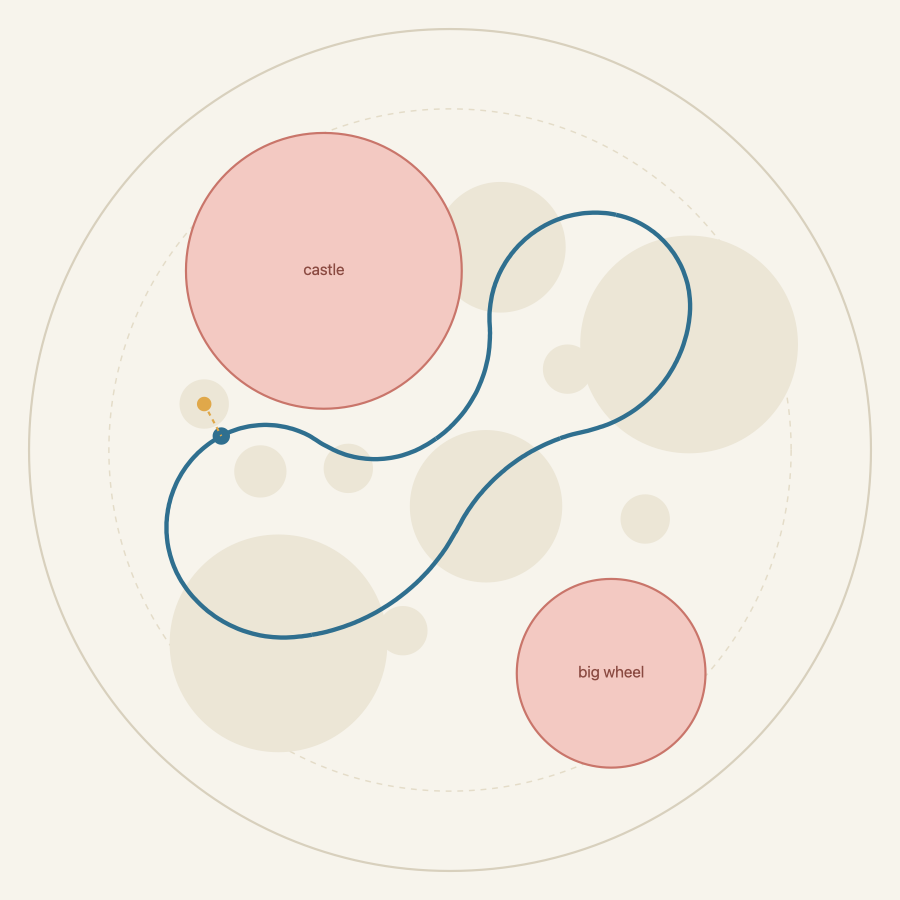
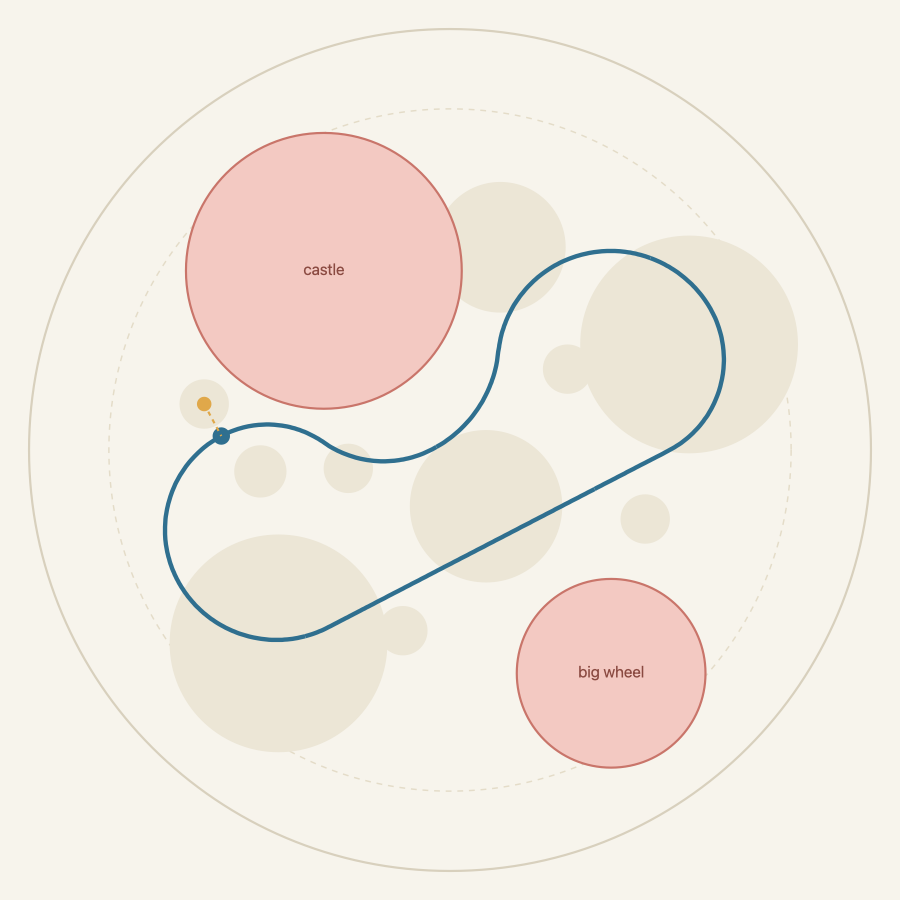
Make the built curve honour the turning radius, not just the plan
Review found this, and it is the same bug this generator was written to
fix, one layer down in the new code.

The generator validates turning radius on its own cubics. CoasterRoute
then resamples the plan into control points and rebuilds it as a
CatmullRomCurve3 — and a rebuild is not a copy. The spline sags away
from the curve its points came from, worst at the tightest bends, which
are exactly the ones under a limit. Measured at the original 3 m control
spacing, the rebuild ate 0.73 to 1.38 m and two of the five CI seeds
shipped a curve tighter than the 12 m the code declares: seed 2 at
11.68 m, seed 18 at 10.98 m.

The old solver pushed its control points clear of the castle and then
smoothed them, so the built curve did not respect what had been
validated. Validating a plan and shipping a rebuild of it is that same
mistake with newer words.

Fixed with both halves, because either alone is thin. CONTROL_SPACING
goes 3 -> 2, which addresses the cause and takes the worst loss to
0.46 m. PLAN_TURN_RADIUS asks the generator for a metre more than the
ride promises, covering what is left — the loss is not smooth in
spacing, it depends where a control lands relative to the tightest bend,
so a margin that merely happens to hold on today's seeds is luck.

Now measured on the built curve in two places that CI blocks on: the
skyCruiserTurnsGently procgen invariant and check:cruiser-turn-radius.
Mutation-tested by raising the bar to 14 m and confirming four seeds
[…]

diff --git a/src/world/coaster/route.ts b/src/world/coaster/route.ts
@@ -99,7 +99,8 @@ const CAR_HALF_WIDTH = 0.75;
 const SELF_CLEARANCE = 5;
 
 /**
- * Tightest turn the ride will make.
+ * **Tightest turn the ride will make** — a promise about the curve riders are
+ * actually on, not about the plan it was grown from.
  *
  * The old polar solve produced a **1.7 m** minimum radius — a hairpin, at
  * cruise speed, measured on the built curve by `scripts/measure-rail-radii.mts`.
@@ -107,14 +108,57 @@ const SELF_CLEARANCE = 5;
  * six-year-old enjoys rather than one that throws them at the restraint, and
  * it keeps the family's "Sky Cruiser is the tightest of the three" ordering
  * comfortably (the Rail Race ring is 57 m).
+ *
+ * `scripts/check-cruiser-turn-radius.mts` holds the built curve to this, and it
+ * is the number the procgen invariant measures. See {@link PLAN_TURN_RADIUS}
+ * for why the generator is asked for something stricter.
  */
-const MIN_TURN_RADIUS = 12;
+export const MIN_TURN_RADIUS = 12;
+
+/**
+ * What the *plan* is held to, which is deliberately more than the ride
+ * promises.
+ *
+ * The generator validates radii on its own cubics, but `CoasterRoute` does not
+ * ship those cubics: it resamples them into control points and rebuilds them as
+ * a `CatmullRomCurve3`, and **a rebuild is not a copy**. The spline through
+ * sampled points sags away from the curve the points came from, and it sags
+ * most at the tightest bends — precisely the ones under a limit. Measured
+ * across the five CI seeds at the original 3 m control spacing, the rebuild ate
+ * between 0.73 m and 1.38 m of radius, and two seeds landed under the 12 m the
+ * ride claims: seed 2 at 11.68 m, seed 18 at 10.98 m.
+ *
+ * That is the same mistake this whole generator replaced. The old solver pushed
+ * its control points clear of the castle and then smoothed them, so the built
+ * curve did not respect what had been validated. Validating a plan and shipping
+ * a rebuild of it is that bug one layer down, in newer code.
+ *
+ * The fix is both halves, because either alone is thin. {@link CONTROL_SPACING}
+ * makes the rebuild faithful, which is the actual cause; this headroom covers
+ * what is left, because the loss is not a smooth function of spacing — it
+ * depends where a control point happens to fall relative to the tightest bend,
+ * so a margin that merely *happens* to hold on today's five seeds is luck, not
+ * a guarantee.
+ */
+const PLAN_TURN_RADIUS = MIN_TURN_RADIUS + 1;
 
 /** Metres of track wanted. The old loop came out at 221 m; this holds that. */
 const DESIRED_LENGTH = 220;
 
-/** Roughly this far apart, in metres, along the loop. */
-const CONTROL_SPACING = 3;
+/**
+ * Roughly this far apart, in metres, along the loop.
+ *
+ * Two metres rather than the three it started at. This is the half of the
+ * turning-radius fix that addresses the cause rather than the symptom: closer
+ * control points mean the rebuilt spline tracks the solved plan more closely,
+ * which took the worst rebuild loss across the CI seeds from 1.38 m to 0.46 m.
+ *
+ * Not finer still, because the vertical repair loop below works in control
+ * points and starts to get grainy when they are packed tighter than its own
+ * scan; two metres keeps the two in step. The rest of the margin is bought by
+ * {@link PLAN_TURN_RADIUS} instead.
+ */
+const CONTROL_SPACING = 2;
 
 
 interface TallObstacle {
@@ -155,7 +199,11 @@ function groundClearOfPlots(x: number, z: number, radius: number, exceptId?: str
 /** The pieces the Sky Cruiser is built from. `MIN_TURN_RADIUS` lives here. */
 const CRUISER_VOCABULARY: readonly SegmentKind[] = turnVocabulary(
   [
-    { name: 'tight', minRadius: MIN_TURN_RADIUS, maxRadius: 18, minLength: 16, maxLength: 28 },
+    // Widening these to compensate for the raised floor was tried and made
+    // things worse (18 of 21 seeds, against 20 before): the vocabulary is not
+    // the binding constraint, and changing it mostly reshuffles which seeds get
+    // lucky. The search budget is the lever that actually moved.
+    { name: 'tight', minRadius: PLAN_TURN_RADIUS, maxRadius: 18, minLength: 16, maxLength: 28 },
     { name: 'sweep', minRadius: 18, maxRadius: 32, minLength: 22, maxLength: 38 },
     { name: 'easy', minRadius: 32, maxRadius: 60, minLength: 26, maxLength: 46 },
   ],
@@ -326,7 +374,7 @@ export class CoasterRoute {
       boundary,
       corridorRadius: CORRIDOR_RADIUS,
       selfClearance: SELF_CLEARANCE,
-      minRadius: MIN_TURN_RADIUS,
+      minRadius: PLAN_TURN_RADIUS,
       budgets: { perJoint: 16, restarts: 200 },
     };
     const plan = solveRailRoute(brief);

diff --git a/test/procgen/invariants.ts b/test/procgen/invariants.ts
@@ -436,6 +436,78 @@ const skyCruiserClearsTheTallThings: Invariant = (facts) => {
 };
 
 /**
+ * The gentlest turn a rail ride may make, in metres.
+ *
+ * A ride-comfort number, not a solver setting: the retired 2D game settled on
+ * "nothing a six-year-old has to brace against", and `coaster/route.ts` states
+ * 12 m as the tightest turn the Sky Cruiser will make. This file cannot import
+ * that constant — a static import of the coaster would solve the park layout at
+ * the default seed before the per-seed tests get to set theirs — so it is
+ * restated here, which is also the point: this is the *claim* being checked,
+ * and it is checked against the curve riders are actually on.
+ */
+const GENTLEST_TURN = 12;
+
+/** Arc spacing between the three points a curvature measurement is taken from. */
+const CURVATURE_SPAN = 2.5;
+
+/**
+ * Radius of the circle through three points, in plan view. Menger curvature.
+ * Infinity where they are collinear.
+ */
+const radiusThrough = (a: Vector3, b: Vector3, c: Vector3): number => {
+  const ab = Math.hypot(b.x - a.x, b.z - a.z);
+  const bc = Math.hypot(c.x - b.x, c.z - b.z);
+  const ca = Math.hypot(a.x - c.x, a.z - c.z);
+  const area = Math.abs((b.x - a.x) * (c.z - a.z) - (c.x - a.x) * (b.z - a.z)) / 2;
+  if (area < 1e-9) return Infinity;
+  return (ab * bc * ca) / (4 * area);
+};
+
+/**
+ * **The Sky Cruiser's built track really does turn as gently as it claims.**
+ *
+ * The generator validates turning radius on its own cubics, and that is not the
+ * same thing as the ride having it. `CoasterRoute` resamples the solved plan
+ * into control points and rebuilds it as a `CatmullRomCurve3`, and a rebuild is
+ * not a copy: the spline sags away from the curve its points came from, worst
+ * at the tightest bends. Measured before this was fixed, the rebuild ate up to
+ * 1.38 m and two of the five seeds here shipped a curve tighter than the 12 m
+ * the code declares — seed 2 at 11.68 m, seed 18 at 10.98 m.
+ *
+ * Which is the same mistake the old solver made, one layer down: it too pushed
+ * control points where it wanted them and then smoothed them, so the built
+ * curve did not honour what had been validated. A plan is a claim. This
+ * measures the fact, and it is the reason the fix cannot silently rot.
+ */
+const skyCruiserTurnsGently: Invariant = (facts) => {
+  const route = facts.world.coaster.route;
+  const a = new Vector3();
+  const b = new Vector3();
+  const c = new Vector3();
+  let tightest = Infinity;
+  let at = 0;
+  // Half-metre steps: a single tight bend is a few metres long, and a coarse
+  // sweep can step straight over the one that matters.
+  for (let d = 0; d < route.length; d += 0.5) {
+    route.pointAt(d - CURVATURE_SPAN, a);
+    route.pointAt(d, b);
+    route.pointAt(d + CURVATURE_SPAN, c);
+    const radius = radiusThrough(a, b, c);
+    if (radius < tightest) {
+      tightest = radius;
+      at = d;
+    }
+  }
+  expect(
+    tightest,
+    `the Sky Cruiser's built track turns at ${tightest.toFixed(2)} m radius ` +
+      `${at.toFixed(0)} m along the loop, tighter than the ${GENTLEST_TURN} m it promises — ` +
+      `the plan was validated but the rebuilt curve does not honour it`,
+  ).toBeGreaterThanOrEqual(GENTLEST_TURN);
+};
+
+/**
  * The suite. **Add an invariant by adding a line here.**
  */
 const INVARIANTS: readonly (readonly [string, Invariant])[] = [
@@ -450,6 +522,7 @@ const INVARIANTS: readonly (readonly [string, Invariant])[] = [
   ['every ride exit is clear ground, reachable from the entrance', rideExitsAreUsable],
   ['the Rail Race flies clear of the railway and stands on clear ground', railRaceFliesClear],
   ['the Sky Cruiser goes round the castle and the big wheel', skyCruiserClearsTheTallThings],
+  ['the Sky Cruiser built track turns as gently as it promises', skyCruiserTurnsGently],
 ];
 
 /**

diff --git a/src/world/rail/generate.ts b/src/world/rail/generate.ts
@@ -196,7 +196,7 @@ const VIA_MAX_GAP = 95;
  * it is the wrong place to start, and the budget is better spent on the next
  * candidate station than on proving this one impossible.
  */
-const STEPS_PER_START = 800;
+const STEPS_PER_START = 1200;
 
 /**
  * How far behind the start the approach corridor sits.

diff --git a/HANDOFF-rail-generator.md b/HANDOFF-rail-generator.md
@@ -98,7 +98,7 @@ is genuinely down among the scenery, unlike the rest of the loop which flies.
 - [x] boundary.ts / segments.ts / generate.ts
 - [x] CoasterRoute migration (public surface unchanged)
 - [x] clearance assert + procgen invariant
-- [x] `npm run build` passes; `npm run test:procgen` 55/55 across 5 seeds
+- [x] `npm run build` passes; `npm run test:procgen` 65/65 across 5 seeds
 - [x] turning-radius measurement (`npm run measure:rail-radii`)
 - [x] sweep:seeds — 30/30 on this branch, 30/30 on origin/main, no regression
 - [x] plan-view renders for the shape approval (`art-samples/cruiser-plan-*.png`)
@@ -162,12 +162,35 @@ pieces, which shrinks an exponential tree; and `SAMPLE_STEP` of 1 m rather than
 **Budgets must be step counts, never wall-clock.** A time budget would make the
 park come out differently on a slower machine.
 
+**Validating the plan is not validating the ride** (found in review, PR #148).
+The generator checks turning radius on its own cubics, but `CoasterRoute`
+resamples the plan into control points and rebuilds it as a `CatmullRomCurve3`,
+and *a rebuild is not a copy*. At the original 3 m control spacing the rebuild
+ate 0.73-1.38 m of radius and two of the five CI seeds shipped a curve tighter
+than the 12 m the code declares (seed 2 at 11.68 m, seed 18 at 10.98 m).
+
+That is structurally the **same bug this generator was written to fix** — the
+old solver pushed control points clear of the castle and then smoothed them —
+recurring one layer down in the new code. Fixed with both halves: finer
+`CONTROL_SPACING` (the cause) and `PLAN_TURN_RADIUS = MIN_TURN_RADIUS + 1` (the
+margin, because the loss is not smooth in spacing — it depends where a control
+lands relative to the tightest bend, so a margin that merely happens to hold on
+today's seeds is luck). `skyCruiserTurnsGently` in the procgen suite and
+`npm run check:cruiser-turn-radius` both measure the **built** curve, so it
+cannot rot back.
+
+Raising the plan floor without raising the vocabulary's ceiling cost a seed;
+widening the bands to compensate cost three more. The lever that worked was
+`STEPS_PER_START` (800 -> 1200).
+
 ## Numbers as built
 
-- Canonical seed: 216 m of track, 10 pieces, tightest turn 12.8 m, solved in
-  ~350 ms at module load. Old polar solve: 221 m, tightest turn **1.7 m**.
-- All 21 seeds tried (canonical + 1..20) solve; worst solver time 1.4 s.
-- `measure:rail-radii`: Sky Cruiser 12.8 m, Rail Race 57.4 m, train 6.6 m. The
+- Canonical seed: 216 m of track, 10 pieces, tightest turn **13.2 m on the
+  built curve**, solved in ~525 ms at module load. Old polar solve: 221 m,
+  tightest turn **1.7 m**.
+- All 21 seeds tried (canonical + 1..20) solve; worst solver time 3.4 s on a
+  non-shipping seed, canonical 525 ms.
+- `measure:rail-radii`: Sky Cruiser 13.2 m, Rail Race 57.4 m, train 6.6 m. The
   family's stated ordering (Cruiser < Race < train) **does not hold** — because
   the *train* turns tighter than the Rail Race. Reported, not fixed; the brief
   says not to bend the other two rides to match.
